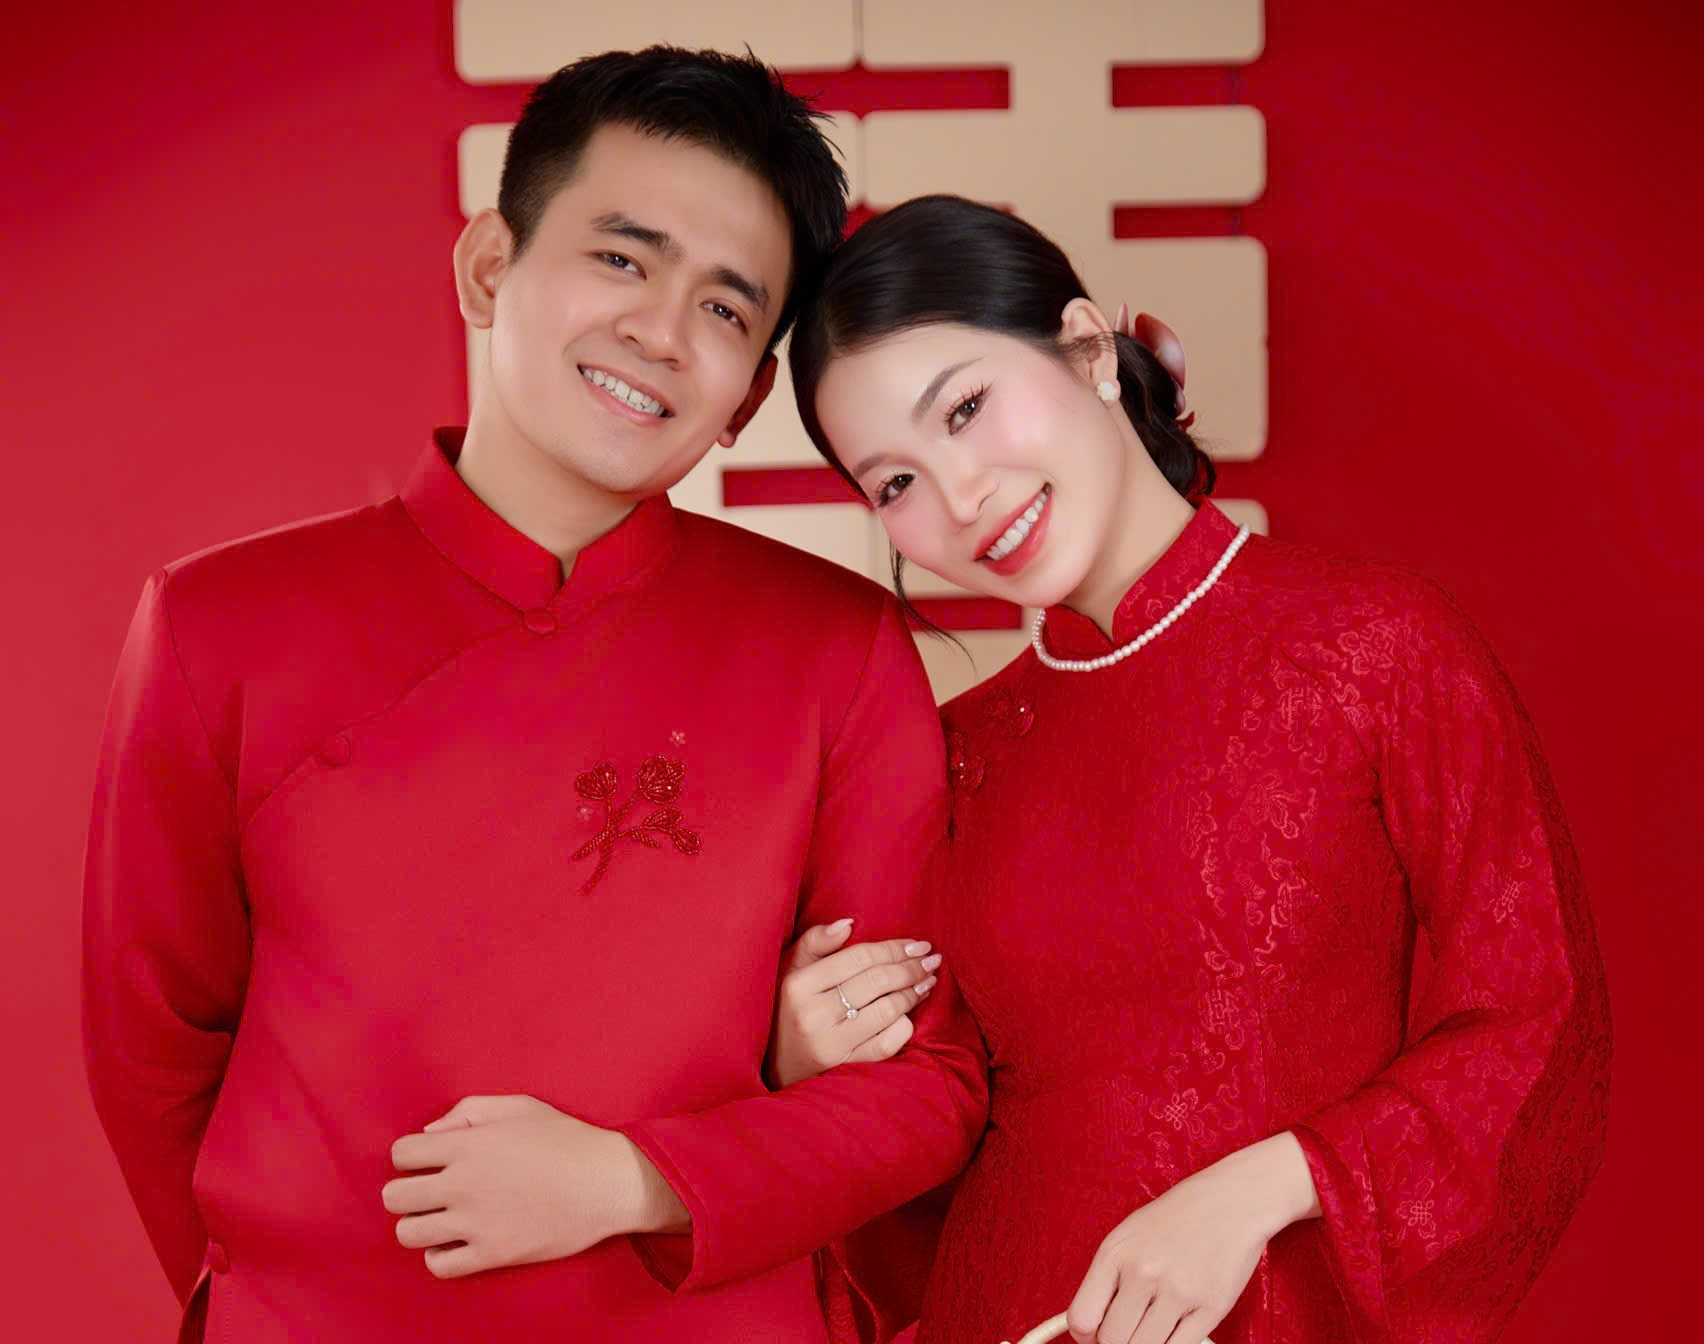
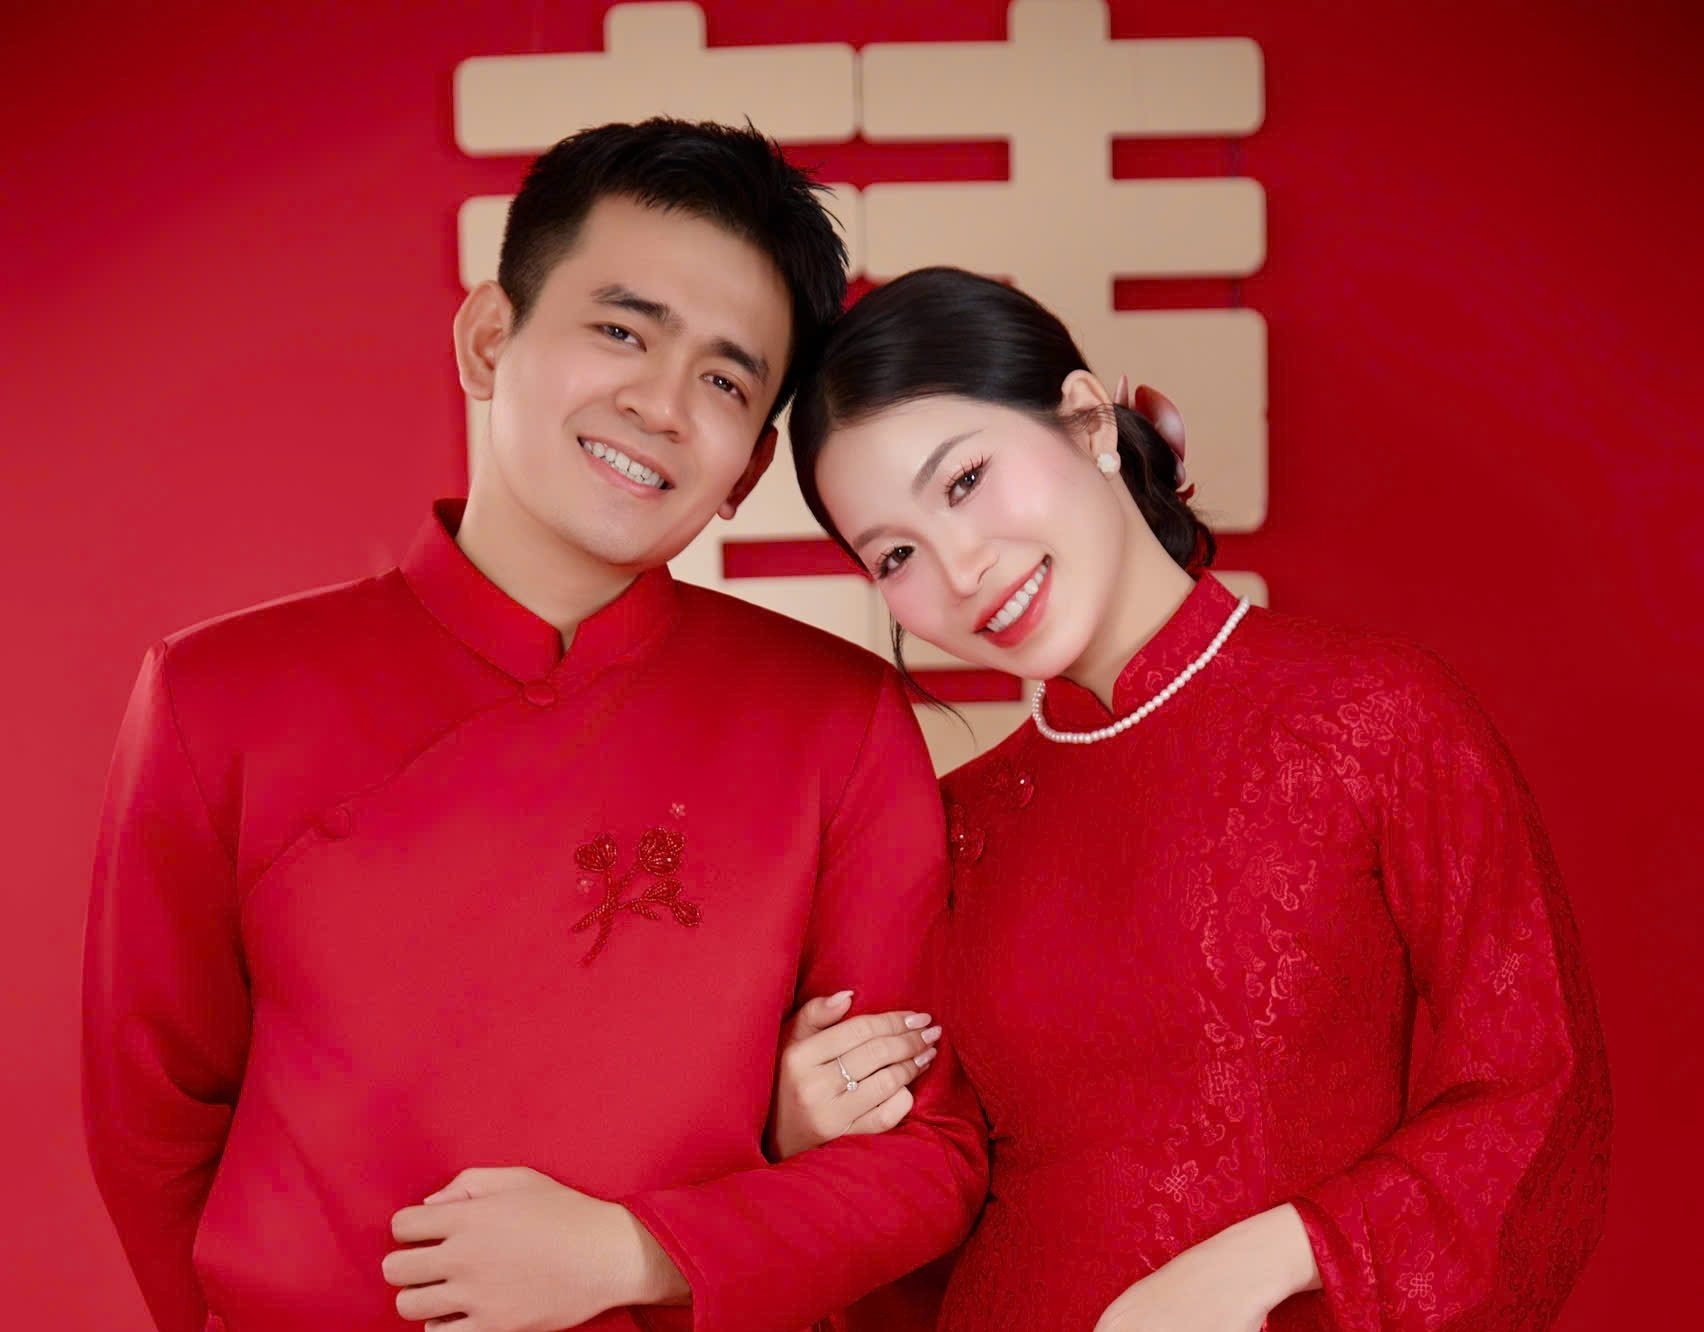
bigupdate

diff --git a/kh_wedding.html b/kh_wedding.html
@@ -127,7 +127,26 @@
     text-align:center;
     overflow: hidden;
   }
+.hy-icon {
+  width: 60px;
+  height: 60px;
+  object-fit: contain;
+  display: block;
+  margin: 0 auto 15px;
+  
+  /* Gắn animation nhịp đập tỏa sáng */
+  animation: hyGlow 2s infinite alternate ease-in-out;
+}
 
+@keyframes hyGlow {
+  from {
+    filter: drop-shadow(0 0 4px rgba(255, 215, 0, 0.5));
+  }
+  to {
+    filter: drop-shadow(0 0 12px rgba(255, 235, 130, 0.9)) 
+            drop-shadow(0 0 15px rgba(255, 215, 0, 0.6));
+  }
+}
   .caption-names {
     display: inline-block;
     font-family: 'Cormorant Garamond', serif;
@@ -168,7 +187,11 @@
     transform: translateX(0);
     transition-delay: calc(0.5s + var(--char-index) * 0.06s);
   }
-
+ /*button:disabled, #openBtn1:disabled {
+  opacity: 0.6;
+  cursor: not-allowed !important;
+  pointer-events: none !important;
+}*/
   /* SECTION BÌA THƯ */
   .envelope-intro-section {
     padding-top: 50px;
@@ -240,7 +263,7 @@
 
   .envelope-main-photo {
     width: 100%;
-    aspect-ratio: 16 / 9;
+    aspect-ratio: 16 / 10.5;
     border-radius: 12px;
     overflow: hidden;
     box-shadow: 0 6px 20px rgba(0, 0, 0, 0.3);
@@ -983,7 +1006,7 @@
   }
   #openToggle:checked ~ .cover .cover-frame{ opacity:0; transform:scale(1.06); pointer-events:none; }
   .cover-frame-inner{
-    border:1px solid rgba(122, 27, 46, 0.88); border-radius:12px; padding:56px 40px;
+    border:1px solid rgba(122, 27, 46, 0.88); border-radius:12px; padding:40px 40px;
     max-width:420px; width:calc(100% - 48px); background:rgba(122, 27, 46, 0.88);
     backdrop-filter:blur(4px); text-align:center;
   }
@@ -1054,7 +1077,6 @@
   .open-btn svg{width:14px;height:14px;transition:transform 0.35s ease;}
   .open-btn:hover svg{transform:translateX(3px);}
 
-  .cover-eyebrow{ font-size:0.8rem; letter-spacing:0.35em; text-transform:uppercase; color:var(--blush); margin-bottom:22px; opacity:0; animation:coverFadeUp 0.7s ease 0.15s forwards; }
   .cover-names{ font-family:'Cormorant Garamond', serif; font-style:italic; font-weight:500; font-size:clamp(2rem,7vw,2.9rem); color:var(--ink); opacity:0; animation:coverFadeUp 0.7s ease 0.3s forwards; }
   .cover-amp{ display:block; font-family:'Cormorant Garamond', serif; font-size:1.6rem; color:var(--blush); margin:2px 0; }
   .cover-divider{ font-size:1rem; color:var(--ink); margin:20px 0; opacity:0; animation:coverFadeUp 0.7s ease 0.45s forwards; }
@@ -1227,7 +1249,7 @@
 
   <div class="cover-frame" id="coverFrame">
     <div class="cover-frame-inner">
-      <div class="cover-eyebrow">Save the date</div>
+      <img src="./image_wedding/chu-hy.webp" alt="Chữ Hỷ" class="hy-icon" />
       <div class="cover-names">
         Thành Kiên
         <span class="cover-amp">&amp;</span>
@@ -1601,7 +1623,6 @@
     container.appendChild(hi);
   }
 })();
-
 // --- CẤU HÌNH SUPABASE ---
 const SUPABASE_URL = 'https://xfeazemkmwiyhtfiyijc.supabase.co';
 const SUPABASE_KEY = 'sb_publishable_7RY3lmAN5yLAxSIRlJUTPw_tBOLlQHp';
@@ -1613,100 +1634,117 @@ async function loadWishes() {
   const container = document.getElementById('wishesList');
   if (!container) return;
 
-  const { data, error } = await db
-    .from('list')
-    .select('*')
-    .order('created_at', { ascending: false });
+  try {
+    const { data, error } = await db
+      .from('list')
+      .select('*')
+      .order('created_at', { ascending: false });
 
-  if (error) {
-    console.error('Lỗi tải lời chúc từ Supabase:', error.message);
-    return;
-  }
+    if (error) throw error;
 
-  container.innerHTML = '';
+    container.innerHTML = '';
 
-  if (data && data.length > 0) {
-    data.forEach(item => {
-      if (item.message && item.message.trim() !== '') {
-        const card = document.createElement('div');
-        card.className = 'wish-card';
-        card.innerHTML = `
-          <div class="wish-header">
-            <span class="wish-author">${item.name || 'Khách mời ẩn danh'}</span>
-          </div>
-          <p class="wish-text">"${item.message}"</p>
-        `;
-        container.appendChild(card);
-      }
-    });
-  }
+    if (data && data.length > 0) {
+      data.forEach(item => {
+        if (item.message && item.message.trim() !== '') {
+          const card = document.createElement('div');
+          card.className = 'wish-card';
+          card.innerHTML = `
+            <div class="wish-header">
+              <span class="wish-author">${item.name || 'Khách mời ẩn danh'}</span>
+            </div>
+            <p class="wish-text">"${item.message}"</p>
+          `;
+          container.appendChild(card);
+        }
+      });
+    }
 
-  if (container.children.length === 0) {
-    container.innerHTML = '<p style="text-align:center; color:rgba(255,255,255,0.7); font-style:italic;">Chưa có lời chúc nào. Hãy là người đầu tiên gửi lời chúc nhé! 💕</p>';
+    if (container.children.length === 0) {
+      container.innerHTML = '<p style="text-align:center; color:rgba(255,255,255,0.7); font-style:italic;">Chưa có lời chúc nào. Hãy là người đầu tiên gửi lời chúc nhé! 💕</p>';
+    }
+  } catch (err) {
+    console.error('Lỗi tải lời chúc từ Supabase:', err.message);
   }
 }
 
-// --- 2. LẤY TÊN KHÁCH MỜI ---
+// --- 2. LẤY TÊN KHÁCH MỜI TỪ SUPABASE ---
 async function loadGuestName() {
   const urlParams = new URLSearchParams(window.location.search);
   const guestSlug = urlParams.get('to');
   const nameInput = document.getElementById('guestNameInput');
   const guestNameElement = document.getElementById('guestName');
 
-  if (!guestSlug) return;
+  // Nếu không có tham số ?to= trên URL
+  if (!guestSlug || guestSlug.trim() === '') return false;
 
   try {
-    const decodedName = decodeURIComponent(escape(atob(guestSlug)));
-    if (decodedName && decodedName.trim() !== '') {
-      if (guestNameElement) guestNameElement.textContent = decodedName;
-      if (nameInput) nameInput.value = decodedName;
-      return;
+    const { data: guest, error } = await db
+      .from('guests')
+      .select('name')
+      .ilike('slug', guestSlug.trim())
+      .maybeSingle();
+
+    if (error) {
+      console.error("Lỗi khi tải thông tin khách mời:", error.message);
+      return false;
     }
-  } catch (e) {
-    // Fallback to Supabase query
-  }
 
-  async function fetchGuestWithRetry(retries = 3, delay = 2000) {
-    for (let i = 0; i < retries; i++) {
-      if (!navigator.onLine) return null;
-
-      try {
-        const { data: guest, error } = await db
-          .from('guests')
-          .select('name')
-          .ilike('slug', guestSlug.trim())
-          .maybeSingle();
-
-        if (error) throw error;
-        if (guest) return guest;
-      } catch (err) {
-        if (i === retries - 1) console.error("Lỗi tải thông tin khách mời:", err.message);
-        await new Promise(res => setTimeout(res, delay));
-      }
+    // Nếu tìm thấy khách mời hợp lệ trong Database
+    if (guest && guest.name) {
+      if (nameInput) nameInput.value = guest.name;
+      if (guestNameElement) guestNameElement.textContent = guest.name;
+      return true;
     }
-    return null;
+  } catch (err) {
+    console.error("Lỗi kết nối Supabase:", err);
   }
 
-  let guest = await fetchGuestWithRetry();
-
-  if (guest) {
-    if (nameInput) nameInput.value = guest.name;
-    if (guestNameElement) guestNameElement.textContent = guest.name;
-  }
+  return false; // Không tìm thấy trong DB
 }
 
 // --- INITIALIZATION & MUSIC AUTO-PLAY ---
-document.addEventListener("DOMContentLoaded", function() {
+document.addEventListener("DOMContentLoaded", async function() {
+  const openBtn = document.getElementById('openBtn');
+  
+  // KHÓA NÚT MỞ THIỆP NGAY TỪ ĐẦU
+  if (openBtn) {
+    openBtn.disabled = true;
+    openBtn.style.pointerEvents = 'none';
+    openBtn.dataset.originalText = openBtn.textContent || 'Mở thiệp';
+    openBtn.textContent = 'Đang tải tên...';
+  }
+
+  // Tải danh sách lời chúc (không làm gián đoạn luồng lấy tên)
   loadWishes();
-  loadGuestName();
+  
+  // Tải tên khách mời từ Supabase và chờ kết quả
+  const isGuestFound = await loadGuestName();
+
+  // CHỈ MỞ KHÓA nếu tìm thấy khách mời trong DB
+  if (isGuestFound && openBtn) {
+    openBtn.disabled = false;
+    openBtn.style.pointerEvents = 'auto';
+    openBtn.textContent = openBtn.dataset.originalText;
+  } else if (openBtn) {
+    // Không tìm thấy tên -> Giữ trạng thái khóa vĩnh viễn
+    openBtn.disabled = true;
+    openBtn.style.pointerEvents = 'none';
+    openBtn.textContent = 'Đang tải tên...';
+  }
 
   const bgMusic = document.getElementById('bgMusic');
   const musicToggle = document.getElementById('musicToggle');
-  const openBtn = document.getElementById('openBtn1');
 
-  function playMusic() {
+  function handleOpenCard(e) {
+    if (openBtn && openBtn.disabled) {
+      e.preventDefault();
+      e.stopPropagation();
+      return false;
+    }
+
     if (bgMusic && bgMusic.paused) {
-      bgMusic.play().then(() => {
+      bgMusic.plays().then(() => {
         if (musicToggle) musicToggle.classList.add('playing');
       }).catch(err => {
         console.log("Autoplay blocked:", err);
@@ -1715,7 +1753,7 @@ document.addEventListener("DOMContentLoaded", function() {
   }
 
   if (openBtn) {
-    openBtn.addEventListener('click', playMusic);
+    openBtn.addEventListener('click', handleOpenCard);
   }
 
   if (musicToggle) {
@@ -1732,7 +1770,7 @@ document.addEventListener("DOMContentLoaded", function() {
 });
 
 // --- 3. XỬ LÝ GỬI FORM RSVP ---
-document.getElementById('weddingRsvpForm').addEventListener('submit', async function(e) {
+document.getElementById('weddingRsvpForm')?.addEventListener('submit', async function(e) {
   e.preventDefault();
 
   const form = e.target;
@@ -1751,21 +1789,9 @@ document.getElementById('weddingRsvpForm').addEventListener('submit', async func
     message: formData.get('message') || ''
   };
 
-  async function insertWithRetry(data, retries = 2, delay = 1000) {
-    for (let i = 0; i <= retries; i++) {
-      try {
-        const res = await db.from('list').insert([data]);
-        if (!res.error) return res;
-        if (i === retries) throw res.error;
-      } catch (err) {
-        if (i === retries) throw err;
-        await new Promise(resolve => setTimeout(resolve, delay));
-      }
-    }
-  }
-
   try {
-    await insertWithRetry(wishData);
+    const { error } = await db.from('list').insert([wishData]);
+    if (error) throw error;
 
     alert('Gửi lời chúc thành công! ❤');
     form.reset();
